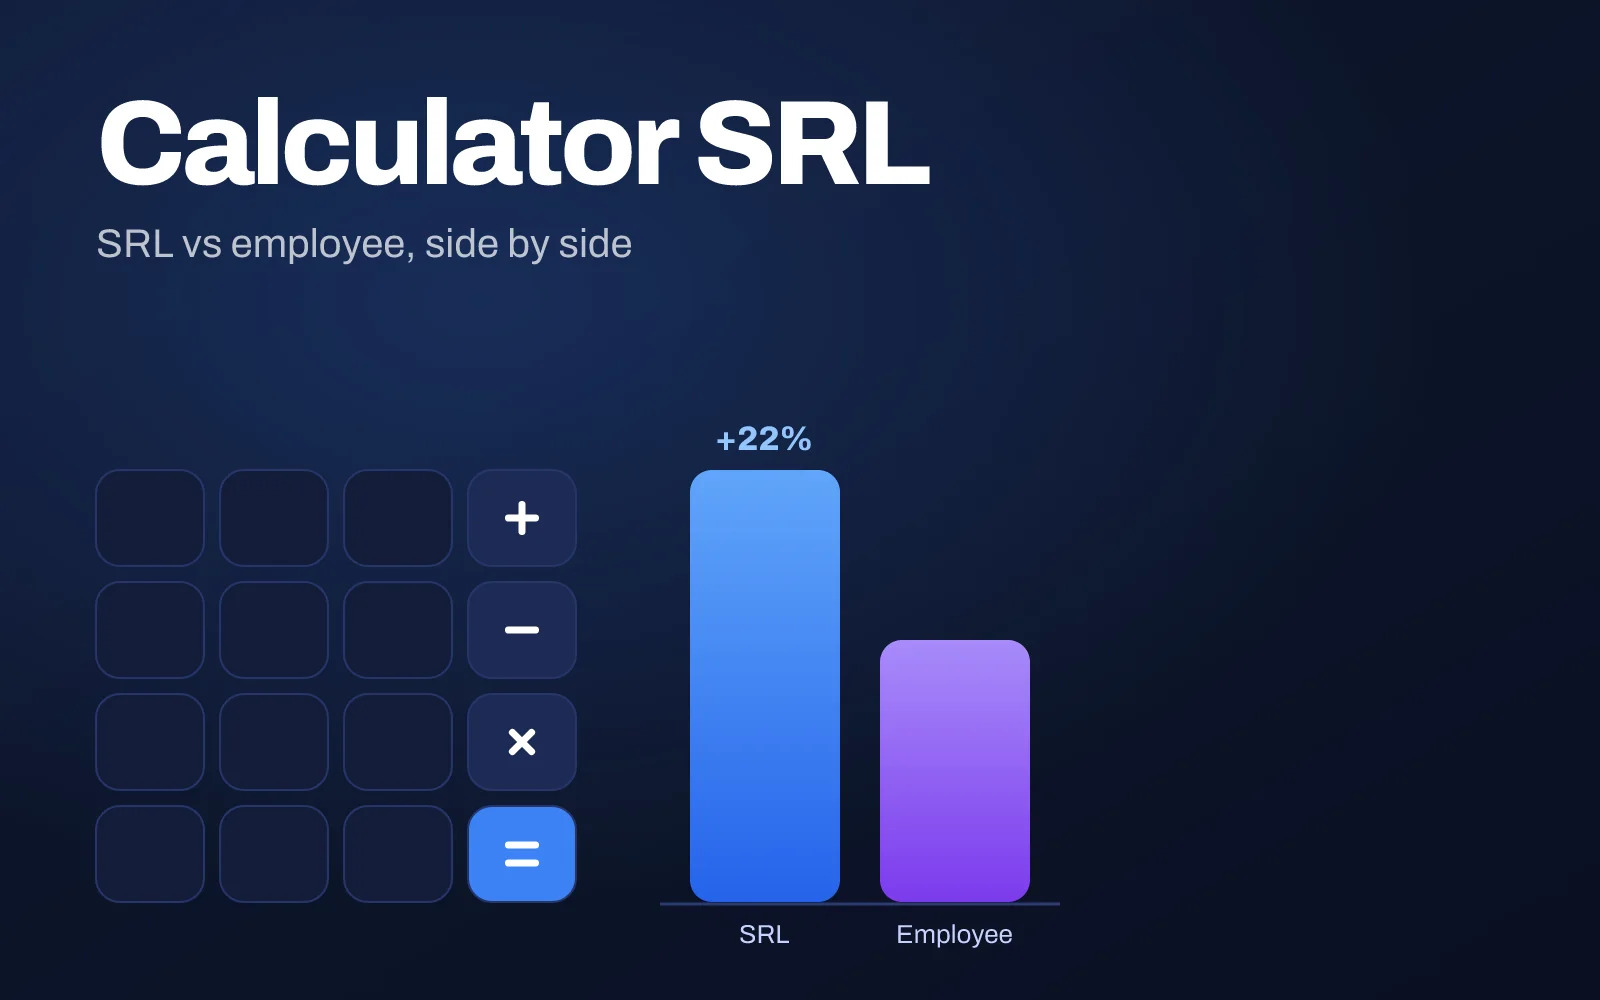
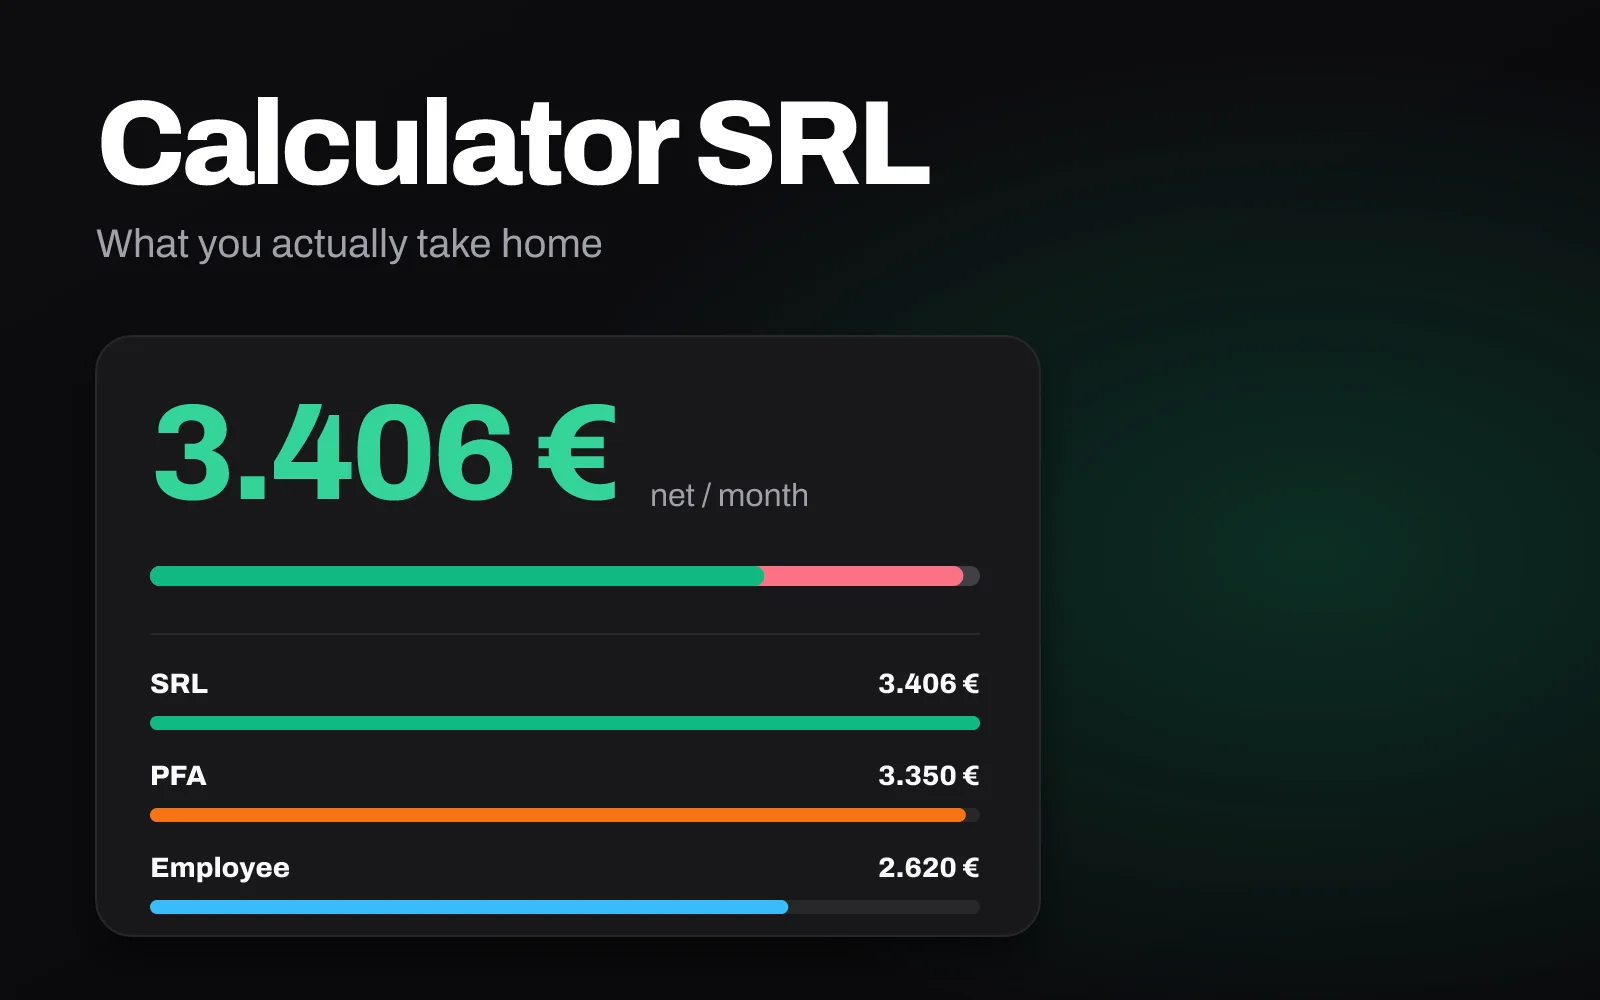
Reorder projects, refresh Calculator SRL and Noelina assets
- New display order everywhere: guitarRot, ComaromTrade, Calculator SRL,
  Noelina, The Loupes Company, SwiperMaster, IG Tracker, MetalFrameHouses
- Hero showcase cycles through the top five projects
- Calculator SRL: new screenshots and cover art for the 2026 redesign
- Noelina: link to the live store, phone and full-page screenshots,
  cover art kept clear of the phone overlay

diff --git a/src/data/projects.js b/src/data/projects.js
@@ -13,58 +13,6 @@ export const projects = [
 		url: 'https://guitar-rot.vercel.app/',
 	},
 	{
-		id: 15,
-		title: 'IG Tracker',
-		description: 'See who unfollowed you, straight from your Instagram export',
-		descriptionExpanded:
-			"A follower tracker that works with Instagram's official data export instead of risky logins. Drop in the followers and following files and it lists who doesn't follow you back and who unfollowed you since your last check, with a history of previous checks. Guided steps walk users through getting their data, and the upload flow stays clear on both desktop and phone.",
-		technologies: ['React', 'Vite', 'TailwindCSS', 'Vercel'],
-		category: 'Web Development',
-		image: '/images/projects/ig_tracker_cover.webp',
-		imageMobile: '/images/projects/ig_tracker_mobile.webp',
-		imageScroll: '/images/projects/ig_tracker_scroll.webp',
-		url: 'https://ig-tracker-two.vercel.app/',
-	},
-	{
-		id: 1,
-		title: 'Iron Will',
-		description: 'Cross-platform discipline & habit tracking app',
-		descriptionExpanded:
-			'A cross-platform mobile and web application built with Capacitor and React, allowing users to build and track daily habits, streaks, and personal goals. The backend is powered by Node.js and Express.js with a MongoDB database, handling user accounts, progress history, and push notifications. TailwindCSS ensures a clean, consistent UI across both iOS, Android, and browser.',
-		technologies: ['Capacitor', 'React', 'TailwindCSS', 'MongoDB', 'Node.js', 'Express.js'],
-		category: 'Mobile App',
-		image: '/images/projects/iron_will_cover.webp',
-		screenshot: '/images/projects/iron_will.webp',
-		url: '#',
-		freelance: true,
-	},
-	{
-		id: 2,
-		title: 'Noelina',
-		description: 'Custom Shopify storefront for a jewelry brand',
-		descriptionExpanded:
-			'A tailored Shopify e-commerce store for a jewelry brand, focused on delivering a premium shopping experience. The theme was customized to reflect the brand identity with refined typography, curated product presentation, and a streamlined checkout flow. Built entirely within the Shopify ecosystem with attention to mobile responsiveness and page load performance.',
-		technologies: ['Shopify'],
-		category: 'E-commerce',
-		image: '/images/projects/noelina_cover.webp',
-		screenshot: '/images/projects/noelina.webp',
-		url: '#',
-		freelance: true,
-	},
-	{
-		id: 3,
-		title: 'SwiperMaster',
-		description: 'Live tracking for street-cleaning fleets',
-		descriptionExpanded:
-			"A fleet platform built for a city's street-cleaning service. Dispatchers follow every sweeper on a live map, see each route as it's driven, and watch the day's plan fill up with a completion percentage per area. Built with React and MapLibre for a fast, responsive operator dashboard, and shipped with Docker.",
-		technologies: ['React', 'MapLibre', 'TailwindCSS', 'Docker'],
-		category: 'Web Development',
-		image: '/images/projects/swipermaster_cover.webp',
-		screenshot: '/images/projects/dustbusters.webp',
-		url: '#',
-		workRelated: true,
-	},
-	{
 		id: 4,
 		title: 'ComaromTrade',
 		description: 'B2B e-commerce platform for construction materials',
@@ -80,6 +28,77 @@ export const projects = [
 		freelance: true,
 	},
 	{
+		id: 6,
+		title: 'Calculator SRL',
+		description: 'Romanian business financial calculator tool',
+		descriptionExpanded:
+			'A financial calculator web app tailored for Romanian entrepreneurs setting up or managing an SRL (limited liability company). The tool helps users estimate net salary, dividend taxes, social contributions, and overall tax burden under different company configurations. Built with React for reactive calculations and deployed on Vercel for instant availability.',
+		technologies: ['React', 'TailwindCSS', 'Vercel'],
+		category: 'Web Development',
+		image: '/images/projects/calculator_srl_cover.webp',
+		screenshot: '/images/projects/calculator_srl.webp',
+		imageMobile: '/images/projects/calculator_srl_mobile.webp',
+		imageScroll: '/images/projects/calculator_srl_scroll.webp',
+		url: 'https://www.calculator-srl.com/',
+		freelance: true,
+	},
+	{
+		id: 2,
+		title: 'Noelina',
+		description: 'Custom Shopify storefront for a jewelry brand',
+		descriptionExpanded:
+			'A tailored Shopify e-commerce store for a jewelry brand, focused on delivering a premium shopping experience. The theme was customized to reflect the brand identity with refined typography, curated product presentation, and a streamlined checkout flow. Built entirely within the Shopify ecosystem with attention to mobile responsiveness and page load performance.',
+		technologies: ['Shopify'],
+		category: 'E-commerce',
+		image: '/images/projects/noelina_cover.webp',
+		screenshot: '/images/projects/noelina.webp',
+		imageMobile: '/images/projects/noelina_mobile.webp',
+		imageScroll: '/images/projects/noelina_scroll.webp',
+		url: 'https://noelina.ro/',
+		freelance: true,
+	},
+	{
+		id: 11,
+		title: 'The Loupes Company',
+		description: 'E-commerce platform for dental loupes and accessories',
+		descriptionExpanded:
+			'A high-performance e-commerce platform for a dental optics company selling custom-fit loupes and accessories to dental professionals. Built with React, the store features product configuration flows, optimized image delivery, and fast page loads prioritized for Core Web Vitals. The project involved close collaboration with the client to translate a specialist product catalog into a clear, conversion-focused shopping experience.',
+		technologies: ['React', 'TailwindCSS'],
+		category: 'E-commerce',
+		image: '/images/projects/tlc_commerce_cover.webp',
+		screenshot: '/images/projects/tlc_commerce.webp',
+		imageMobile: '/images/projects/tlc_commerce_mobile.webp',
+		imageScroll: '/images/projects/tlc_commerce_scroll.webp',
+		url: 'https://theloupescompany.com/',
+		workRelated: true,
+	},
+	{
+		id: 3,
+		title: 'SwiperMaster',
+		description: 'Live tracking for street-cleaning fleets',
+		descriptionExpanded:
+			"A fleet platform built for a city's street-cleaning service. Dispatchers follow every sweeper on a live map, see each route as it's driven, and watch the day's plan fill up with a completion percentage per area. Built with React and MapLibre for a fast, responsive operator dashboard, and shipped with Docker.",
+		technologies: ['React', 'MapLibre', 'TailwindCSS', 'Docker'],
+		category: 'Web Development',
+		image: '/images/projects/swipermaster_cover.webp',
+		screenshot: '/images/projects/dustbusters.webp',
+		url: '#',
+		workRelated: true,
+	},
+	{
+		id: 15,
+		title: 'IG Tracker',
+		description: 'See who unfollowed you, straight from your Instagram export',
+		descriptionExpanded:
+			"A follower tracker that works with Instagram's official data export instead of risky logins. Drop in the followers and following files and it lists who doesn't follow you back and who unfollowed you since your last check, with a history of previous checks. Guided steps walk users through getting their data, and the upload flow stays clear on both desktop and phone.",
+		technologies: ['React', 'Vite', 'TailwindCSS', 'Vercel'],
+		category: 'Web Development',
+		image: '/images/projects/ig_tracker_cover.webp',
+		imageMobile: '/images/projects/ig_tracker_mobile.webp',
+		imageScroll: '/images/projects/ig_tracker_scroll.webp',
+		url: 'https://ig-tracker-two.vercel.app/',
+	},
+	{
 		id: 5,
 		title: 'MetalFrameHouses',
 		description: 'Corporate website for a steel frame construction company',
@@ -93,18 +112,16 @@ export const projects = [
 		workRelated: true,
 	},
 	{
-		id: 6,
-		title: 'Calculator SRL',
-		description: 'Romanian business financial calculator tool',
+		id: 1,
+		title: 'Iron Will',
+		description: 'Cross-platform discipline & habit tracking app',
 		descriptionExpanded:
-			'A financial calculator web app tailored for Romanian entrepreneurs setting up or managing an SRL (limited liability company). The tool helps users estimate net salary, dividend taxes, social contributions, and overall tax burden under different company configurations. Built with React for reactive calculations and deployed on Vercel for instant availability.',
-		technologies: ['React', 'TailwindCSS', 'Vercel'],
-		category: 'Web Development',
-		image: '/images/projects/calculator_srl_cover.webp',
-		screenshot: '/images/projects/calculator_srl.webp',
-		imageMobile: '/images/projects/calculator_srl_mobile.webp',
-		imageScroll: '/images/projects/calculator_srl_scroll.webp',
-		url: 'https://www.calculator-srl.com/',
+			'A cross-platform mobile and web application built with Capacitor and React, allowing users to build and track daily habits, streaks, and personal goals. The backend is powered by Node.js and Express.js with a MongoDB database, handling user accounts, progress history, and push notifications. TailwindCSS ensures a clean, consistent UI across both iOS, Android, and browser.',
+		technologies: ['Capacitor', 'React', 'TailwindCSS', 'MongoDB', 'Node.js', 'Express.js'],
+		category: 'Mobile App',
+		image: '/images/projects/iron_will_cover.webp',
+		screenshot: '/images/projects/iron_will.webp',
+		url: '#',
 		freelance: true,
 	},
 	{
@@ -168,21 +185,6 @@ export const projects = [
 		workRelated: true,
 	},
 	{
-		id: 11,
-		title: 'The Loupes Company',
-		description: 'E-commerce platform for dental loupes and accessories',
-		descriptionExpanded:
-			'A high-performance e-commerce platform for a dental optics company selling custom-fit loupes and accessories to dental professionals. Built with React, the store features product configuration flows, optimized image delivery, and fast page loads prioritized for Core Web Vitals. The project involved close collaboration with the client to translate a specialist product catalog into a clear, conversion-focused shopping experience.',
-		technologies: ['React', 'TailwindCSS'],
-		category: 'E-commerce',
-		image: '/images/projects/tlc_commerce_cover.webp',
-		screenshot: '/images/projects/tlc_commerce.webp',
-		imageMobile: '/images/projects/tlc_commerce_mobile.webp',
-		imageScroll: '/images/projects/tlc_commerce_scroll.webp',
-		url: 'https://theloupescompany.com/',
-		workRelated: true,
-	},
-	{
 		id: 12,
 		title: 'AVM Assistant',
 		description: 'Accessibility web app for users with sensory and motor impairments',
@@ -210,7 +212,7 @@ export const projects = [
 
 export const isLive = (project) => Boolean(project.url) && project.url !== '#'
 
-const featuredIds = [14, 15, 1, 2, 3, 4]
+const featuredIds = [14, 4, 6, 2, 11, 3]
 
 export const getFeaturedProjects = () => featuredIds.map((id) => projects.find((p) => p.id === id))
 

diff --git a/src/components/sections/HeroShowcase.jsx b/src/components/sections/HeroShowcase.jsx
@@ -8,7 +8,7 @@ import { projects, isLive } from '@/data/projects'
 import { REDUCE } from '@/lib/anime'
 import ProjectSheet from '@/components/ui/ProjectSheet'
 
-const reel = projects.filter((p) => p.imageScroll)
+const reel = projects.slice(0, 5) // top five projects; each needs imageMobile + imageScroll
 const HOLD = 900 // ms resting at the top and bottom of each page
 
 /**
